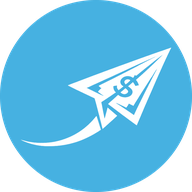
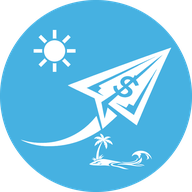
feat: update CI workflow by removing Docker build job and enhance README with new features and API endpoints

Changed region(s): [[0.4688, 0.6875, 0.8125, 0.9062], [0.1562, 0.1562, 0.4062, 0.375]]

diff --git a/frontend/src/pages/Landing.tsx b/frontend/src/pages/Landing.tsx
@@ -13,6 +13,14 @@ type Tab = 'signin' | 'register';
 export default function Landing() {
   const navigate = useNavigate();
   const { user, authLoading } = useAppStore();
+  const [tab, setTab] = useState<Tab>('signin');
+  const [email, setEmail] = useState('');
+  const [password, setPassword] = useState('');
+  const [name, setName] = useState('');
+  const [error, setError] = useState<string | null>(null);
+  const [loading, setLoading] = useState(false);
+  const [turnstileToken, setTurnstileToken] = useState<string | null>(null);
+  const [turnstileKey, setTurnstileKey] = useState(0);
 
   useEffect(() => {
     if (!authLoading && user) {
@@ -27,14 +35,6 @@ export default function Landing() {
       </div>
     );
   }
-  const [tab, setTab] = useState<Tab>('signin');
-  const [email, setEmail] = useState('');
-  const [password, setPassword] = useState('');
-  const [name, setName] = useState('');
-  const [error, setError] = useState<string | null>(null);
-  const [loading, setLoading] = useState(false);
-  const [turnstileToken, setTurnstileToken] = useState<string | null>(null);
-  const [turnstileKey, setTurnstileKey] = useState(0);
 
   const captchaRequired = !!TURNSTILE_SITE_KEY;
   const canSubmit = !loading && (!captchaRequired || !!turnstileToken);

diff --git a/README.md b/README.md
@@ -1,3 +1,7 @@
+<p align="center">
+  <img src="frontend/public/logo.png" alt="Duitrip" width="120" />
+</p>
+
 # Duitrip ✈️
 
 Multi-currency trip expense tracker. Split costs across currencies with exchange rates locked at the moment of recording, so totals never drift after the fact.
@@ -8,12 +12,14 @@ Multi-currency trip expense tracker. Split costs across currencies with exchange
 - **Ghost members** — add people who don't have an account yet; promote them later when they join
 - **Debt simplification** — greedy algorithm minimises the number of settlement transactions
 - **Settlement history** — record settlements with optional notes; edit or delete past records
+- **Nudge notifications** — send an in-app reminder to a member to settle up (1-hour cooldown per sender/recipient/trip)
 - **Analytics** — spending by category, by day, by member, personal vs group average
 - **Expense management** — creator can edit or delete their own expenses (owners can edit any)
 - **Member management** — trip owner can invite, remove members, and promote ghost members
 - **Country flag emoji** — automatically shown next to trip titles based on destination currency
 - **Profile pictures** — client-side canvas crop (128×128 JPEG) stored as base64 in Firestore
-- **PWA** — installable, works offline for reads
+- **Account deletion** — permanent self-service deletion with "type delete to confirm" guard
+- **PWA** — installable, persistent login across browser/app closes, works offline for reads
 - **Cloudflare Turnstile** — optional CAPTCHA on sign-up/onboarding (skipped when site key is empty)
 - **Email/password + Google sign-in** via Firebase Auth
 
@@ -29,7 +35,7 @@ Multi-currency trip expense tracker. Split costs across currencies with exchange
 | Auth | Firebase Auth (email/password + Google OAuth) |
 | Exchange rates | [frankfurter.app](https://www.frankfurter.app/) — 1-hour in-memory cache |
 | Local dev | Docker Compose + Firebase Emulator Suite |
-| CI | GitHub Actions (lint → type-check → Docker build) |
+| CI | GitHub Actions (lint → type-check) |
 | Deploy | Google Cloud Run (single container) via Cloud Build |
 
 ## Local Development
@@ -53,13 +59,15 @@ docker compose -f docker-compose.dev.yml up --build
 
 ### Seed test data
 
+The emulator automatically imports seed data from `firebase/.emulator-data` on startup and exports it on graceful shutdown, so data persists across restarts.
+
+To re-seed from scratch:
+
 ```bash
-cd firebase
-npm install
-FIRESTORE_EMULATOR_HOST=localhost:8080 FIREBASE_AUTH_EMULATOR_HOST=localhost:9099 node seed.js
+node firebase/seed.js
 ```
 
-### Test accounts (after seeding)
+### Test accounts
 
 | Name | Email | Password | Home currency |
 |------|-------|----------|---------------|
@@ -106,7 +114,8 @@ duitrip/
 │   ├── src/
 │   │   ├── pages/              # Route-level components
 │   │   ├── components/         # Shared UI + feature components
-│   │   ├── hooks/              # useAuth, useTrip, useExpenses, useExchangeRates
+│   │   ├── contexts/           # AuthContext (Firebase auth listener)
+│   │   ├── hooks/              # useTrip, useExpenses, useExchangeRates
 │   │   ├── services/           # Firebase, Axios API client, auth helpers
 │   │   ├── store/              # Zustand app store
 │   │   ├── utils/              # Currency formatting, date helpers, image upload
@@ -115,7 +124,7 @@ duitrip/
 │
 ├── backend/
 │   ├── app/
-│   │   ├── routers/            # FastAPI routers (users, trips, expenses, …)
+│   │   ├── routers/            # FastAPI routers (users, trips, expenses, notifications, …)
 │   │   ├── models/             # Pydantic request/response models
 │   │   ├── services/           # Firestore, exchange rates, settlement, Turnstile
 │   │   └── main.py             # App entrypoint; serves SPA static files in prod
@@ -125,7 +134,8 @@ duitrip/
     ├── Dockerfile.emulator     # Firebase Emulator (Java 21 + Node 20)
     ├── firebase.json
     ├── firestore.rules
-    └── seed.js                 # Creates test users, trip, and expenses
+    ├── seed.js                 # Creates test users, trip, and expenses
+    └── .emulator-data/         # Persisted emulator state (auto-exported on stop)
 ```
 
 ## API
@@ -154,10 +164,15 @@ All endpoints are prefixed with `/api`. Auth requires a Firebase ID token in the
 | PATCH | `/api/trips/:id/members/ghost/:gid` | Update a ghost member's name/currency |
 | POST | `/api/trips/:id/members/ghost/:gid/promote` | Send invite to promote ghost to real member |
 | DELETE | `/api/trips/:id/members/:mid` | Remove a member (owner only) |
+| POST | `/api/trips/:id/nudge` | Send a settlement reminder notification (1-hour cooldown) |
 | GET | `/api/exchange-rates/:from/:to` | Spot rate (cached 1 h) |
 | GET | `/api/users/me` | Current user profile |
 | PATCH | `/api/users/me` | Update display name, home currency, or photo |
 | POST | `/api/users/me/init` | Onboarding (sets home currency, verifies Turnstile) |
+| DELETE | `/api/users/me` | Permanently delete account and Firebase Auth user |
+| GET | `/api/notifications` | List in-app notifications for current user |
+| POST | `/api/notifications/read-all` | Mark all notifications as read |
+| DELETE | `/api/notifications/:id` | Dismiss a notification |
 | GET | `/health` | Health check (no auth) |
 
 Interactive docs: http://localhost:8001/api/docs